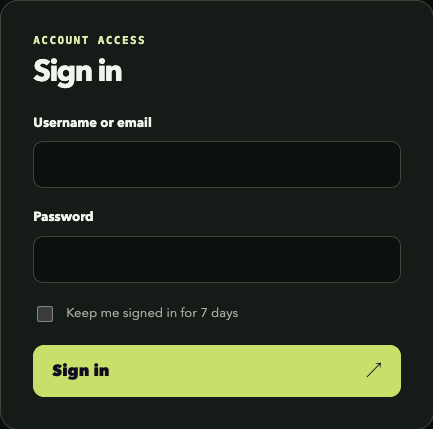
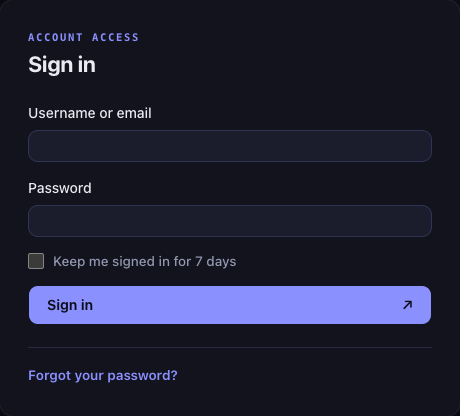
Refresh product screenshots and remove the share rail
- Recapture generator and admin login shots from the live app with
  the new indigo palette (dark theme)
- Drop the floating social share rail from the landing page and all
  server-rendered public pages; keep the go-to-top button
- Remove the share wiring from gplayer-landing.js and the rail CSS
- Bump service worker cache to v34 so visitors pick up the changes

diff --git a/public/index.html b/public/index.html
@@ -303,14 +303,6 @@
     <p class="copyright">© <span id="copyright-year"></span> <!-- runtime-site-name -->GPlayer<!-- /runtime-site-name --></p>
   </footer>
 
-  <aside class="public-share-rail" aria-label="Share this page">
-    <a href="#" data-share-network="facebook" target="_blank" rel="nofollow noopener noreferrer" aria-label="Share on Facebook" data-slot="button" data-variant="ghost" data-size="default" class="group/button inline-flex shrink-0 items-center justify-center rounded-lg border border-transparent bg-clip-padding text-sm font-medium whitespace-nowrap transition-all outline-none select-none focus-visible:border-ring focus-visible:ring-3 focus-visible:ring-ring/50 active:not-aria-[haspopup]:translate-y-px disabled:pointer-events-none disabled:opacity-50 aria-invalid:border-destructive aria-invalid:ring-3 aria-invalid:ring-destructive/20 dark:aria-invalid:border-destructive/50 dark:aria-invalid:ring-destructive/40 [&amp;_svg]:pointer-events-none [&amp;_svg]:shrink-0 [&amp;_svg:not([class*=&#x27;size-&#x27;])]:size-4 hover:bg-muted hover:text-foreground aria-expanded:bg-muted aria-expanded:text-foreground dark:hover:bg-muted/50 h-8 gap-1.5 px-2.5 has-data-[icon=inline-end]:pr-2 has-data-[icon=inline-start]:pl-2"><span aria-hidden="true">f</span></a>
-    <a href="#" data-share-network="x" target="_blank" rel="nofollow noopener noreferrer" aria-label="Share on X" data-slot="button" data-variant="ghost" data-size="default" class="group/button inline-flex shrink-0 items-center justify-center rounded-lg border border-transparent bg-clip-padding text-sm font-medium whitespace-nowrap transition-all outline-none select-none focus-visible:border-ring focus-visible:ring-3 focus-visible:ring-ring/50 active:not-aria-[haspopup]:translate-y-px disabled:pointer-events-none disabled:opacity-50 aria-invalid:border-destructive aria-invalid:ring-3 aria-invalid:ring-destructive/20 dark:aria-invalid:border-destructive/50 dark:aria-invalid:ring-destructive/40 [&amp;_svg]:pointer-events-none [&amp;_svg]:shrink-0 [&amp;_svg:not([class*=&#x27;size-&#x27;])]:size-4 hover:bg-muted hover:text-foreground aria-expanded:bg-muted aria-expanded:text-foreground dark:hover:bg-muted/50 h-8 gap-1.5 px-2.5 has-data-[icon=inline-end]:pr-2 has-data-[icon=inline-start]:pl-2"><span aria-hidden="true">X</span></a>
-    <a href="#" data-share-network="whatsapp" target="_blank" rel="nofollow noopener noreferrer" aria-label="Share on WhatsApp" data-slot="button" data-variant="ghost" data-size="default" class="group/button inline-flex shrink-0 items-center justify-center rounded-lg border border-transparent bg-clip-padding text-sm font-medium whitespace-nowrap transition-all outline-none select-none focus-visible:border-ring focus-visible:ring-3 focus-visible:ring-ring/50 active:not-aria-[haspopup]:translate-y-px disabled:pointer-events-none disabled:opacity-50 aria-invalid:border-destructive aria-invalid:ring-3 aria-invalid:ring-destructive/20 dark:aria-invalid:border-destructive/50 dark:aria-invalid:ring-destructive/40 [&amp;_svg]:pointer-events-none [&amp;_svg]:shrink-0 [&amp;_svg:not([class*=&#x27;size-&#x27;])]:size-4 hover:bg-muted hover:text-foreground aria-expanded:bg-muted aria-expanded:text-foreground dark:hover:bg-muted/50 h-8 gap-1.5 px-2.5 has-data-[icon=inline-end]:pr-2 has-data-[icon=inline-start]:pl-2"><span aria-hidden="true">WA</span></a>
-    <a href="#" data-share-network="telegram" target="_blank" rel="nofollow noopener noreferrer" aria-label="Share on Telegram" data-slot="button" data-variant="ghost" data-size="default" class="group/button inline-flex shrink-0 items-center justify-center rounded-lg border border-transparent bg-clip-padding text-sm font-medium whitespace-nowrap transition-all outline-none select-none focus-visible:border-ring focus-visible:ring-3 focus-visible:ring-ring/50 active:not-aria-[haspopup]:translate-y-px disabled:pointer-events-none disabled:opacity-50 aria-invalid:border-destructive aria-invalid:ring-3 aria-invalid:ring-destructive/20 dark:aria-invalid:border-destructive/50 dark:aria-invalid:ring-destructive/40 [&amp;_svg]:pointer-events-none [&amp;_svg]:shrink-0 [&amp;_svg:not([class*=&#x27;size-&#x27;])]:size-4 hover:bg-muted hover:text-foreground aria-expanded:bg-muted aria-expanded:text-foreground dark:hover:bg-muted/50 h-8 gap-1.5 px-2.5 has-data-[icon=inline-end]:pr-2 has-data-[icon=inline-start]:pl-2"><span aria-hidden="true">TG</span></a>
-    <button type="button" tabindex="0" data-slot="button" data-share-more aria-label="Share this page or copy its link" class="group/button inline-flex shrink-0 items-center justify-center rounded-lg border border-transparent bg-clip-padding text-sm font-medium whitespace-nowrap transition-all outline-none select-none focus-visible:border-ring focus-visible:ring-3 focus-visible:ring-ring/50 active:not-aria-[haspopup]:translate-y-px disabled:pointer-events-none disabled:opacity-50 aria-invalid:border-destructive aria-invalid:ring-3 aria-invalid:ring-destructive/20 dark:aria-invalid:border-destructive/50 dark:aria-invalid:ring-destructive/40 [&amp;_svg]:pointer-events-none [&amp;_svg]:shrink-0 [&amp;_svg:not([class*=&#x27;size-&#x27;])]:size-4 hover:bg-muted hover:text-foreground aria-expanded:bg-muted aria-expanded:text-foreground dark:hover:bg-muted/50 size-8"><span aria-hidden="true">↗</span></button>
-    <span class="sr-only" data-share-status aria-live="polite"></span>
-  </aside>
   <button type="button" tabindex="0" data-slot="button" id="gotoTop" aria-label="Go to top" title="Go to top" hidden class="group/button inline-flex shrink-0 items-center justify-center rounded-lg border border-transparent bg-clip-padding text-sm font-medium whitespace-nowrap transition-all outline-none select-none focus-visible:border-ring focus-visible:ring-3 focus-visible:ring-ring/50 active:not-aria-[haspopup]:translate-y-px disabled:pointer-events-none disabled:opacity-50 aria-invalid:border-destructive aria-invalid:ring-3 aria-invalid:ring-destructive/20 dark:aria-invalid:border-destructive/50 dark:aria-invalid:ring-destructive/40 [&amp;_svg]:pointer-events-none [&amp;_svg]:shrink-0 [&amp;_svg:not([class*=&#x27;size-&#x27;])]:size-4 hover:bg-muted hover:text-foreground aria-expanded:bg-muted aria-expanded:text-foreground dark:hover:bg-muted/50 size-8 goto-top"><span aria-hidden="true">↑</span></button>
 
   <template id="subtitle-template">

diff --git a/test/system-routes.test.ts b/test/system-routes.test.ts
@@ -74,9 +74,8 @@ describe('legacy-compatible system routes', () => {
     expect(page.body).toContain('src="./assets/js/gplayer-theme.js"')
     expect(page.body).toContain('data-theme-choice="light"')
     expect(page.body).toContain('data-theme-choice="dark"')
-    expect(page.body).toContain('data-share-network="facebook"')
-    expect(page.body).toContain('data-share-network="telegram"')
-    expect(page.body).toContain('data-share-more')
+    expect(page.body).not.toContain('data-share-network')
+    expect(page.body).not.toContain('data-share-more')
     expect(page.body).toContain('id="gotoTop"')
     expect(page.body).not.toContain('runtime-disqus')
     expect(page.body).not.toContain('gplayer-disqus.js')
@@ -107,11 +106,8 @@ describe('legacy-compatible system routes', () => {
     expect(script.body).toContain("document.querySelector('link[rel=\"manifest\"]')")
     expect(script.body).toContain("manifestLink instanceof HTMLLinkElement ? manifestLink.href : document.baseURI")
     expect(script.body).toContain("navigator.serviceWorker.register(new URL('sw.js', publicBase))")
-    expect(script.body).toContain('https://www.facebook.com/sharer/sharer.php')
-    expect(script.body).toContain('https://twitter.com/intent/tweet')
-    expect(script.body).toContain('https://api.whatsapp.com/send')
-    expect(script.body).toContain('https://t.me/share/url')
-    expect(script.body).toContain("typeof navigator.share === 'function'")
+    expect(script.body).not.toContain('https://www.facebook.com/sharer/sharer.php')
+    expect(script.body).not.toContain('https://twitter.com/intent/tweet')
     expect(script.body).toContain('globalThis.scrollY <= 200')
     expect(script.body).toContain("behavior: reduced ? 'auto' : 'smooth'")
     expect(script.body).not.toMatch(/gdplayer\.(?:to|io)/i)
@@ -124,7 +120,7 @@ describe('legacy-compatible system routes', () => {
     expect(themeScript.body).not.toContain('eval(')
     expect(style.body).toContain(':root[data-theme="light"]')
     expect(style.body).toContain(':root:not([data-theme="dark"])')
-    expect(style.body).toContain('.public-share-rail')
+    expect(style.body).not.toContain('.public-share-rail')
     expect(style.body).toContain('.goto-top')
   })
 
@@ -221,9 +217,8 @@ describe('legacy-compatible system routes', () => {
       expect(response.body).toContain('aria-label="$1 Media &amp; Player home"')
       expect(response.body).toContain('<link rel="stylesheet" href="/runtime-site.css">')
       expect(response.body).toContain('Stream &lt;everything&gt; safely')
-      expect(response.body).toContain('data-share-network="facebook"')
-      expect(response.body).toContain('data-share-network="telegram"')
-      expect(response.body).toContain('data-share-more')
+      expect(response.body).not.toContain('data-share-network')
+      expect(response.body).not.toContain('data-share-more')
       expect(response.body).toContain('id="gotoTop"')
     }
     expect(dmca.body).toContain('$1 Media &amp; Player respects the intellectual-property rights')
@@ -686,7 +681,7 @@ describe('legacy-compatible system routes', () => {
       ])
     }))
     expect(worker.statusCode).toBe(200)
-    expect(worker.body).toContain("gplayer-node-public-v33")
+    expect(worker.body).toContain("gplayer-node-public-v34")
     expect(worker.body).toContain("'assets/css/gplayer-ui.css'")
     expect(worker.body).toContain("const OFFLINE_URL = scopedUrl('offline.html')")
     expect(worker.body).toContain('.map(scopedUrl)')

diff --git a/public/assets/js/gplayer-landing.js b/public/assets/js/gplayer-landing.js
@@ -193,44 +193,6 @@
   }
 
   function configurePublicUtilities() {
-    const sharedUrl = location.href
-    const sharedTitle = document.title
-    const encodedUrl = encodeURIComponent(sharedUrl)
-    const encodedTitle = encodeURIComponent(sharedTitle)
-    const destinations = {
-      facebook: `https://www.facebook.com/sharer/sharer.php?u=${encodedUrl}`,
-      x: `https://twitter.com/intent/tweet?url=${encodedUrl}&text=${encodedTitle}`,
-      whatsapp: `https://api.whatsapp.com/send?text=${encodedTitle}%20${encodedUrl}`,
-      telegram: `https://t.me/share/url?url=${encodedUrl}&text=${encodedTitle}`
-    }
-
-    document.querySelectorAll('[data-share-network]').forEach((link) => {
-      if (!(link instanceof HTMLAnchorElement)) return
-      const destination = destinations[link.dataset.shareNetwork]
-      if (destination !== undefined) link.href = destination
-    })
-
-    const status = document.querySelector('[data-share-status]')
-    document.querySelector('[data-share-more]')?.addEventListener('click', async () => {
-      try {
-        if (typeof navigator.share === 'function') {
-          await navigator.share({ title: sharedTitle, url: sharedUrl })
-          announceShareStatus(status, 'Share menu opened.')
-          return
-        }
-        await copyShareUrl(sharedUrl)
-        announceShareStatus(status, 'Link copied.')
-      } catch (error) {
-        if (error instanceof DOMException && error.name === 'AbortError') return
-        try {
-          await copyShareUrl(sharedUrl)
-          announceShareStatus(status, 'Link copied.')
-        } catch {
-          announceShareStatus(status, 'Copy the link from the address bar.')
-        }
-      }
-    })
-
     const gotoTop = document.querySelector('#gotoTop')
     if (!(gotoTop instanceof HTMLButtonElement)) return
     let scrollFrame = 0
@@ -247,26 +209,5 @@
       globalThis.scrollTo({ top: 0, behavior: reduced ? 'auto' : 'smooth' })
     })
     updateGotoTop()
-  }
-
-  async function copyShareUrl(url) {
-    if (navigator.clipboard?.writeText !== undefined) {
-      await navigator.clipboard.writeText(url)
-      return
-    }
-    const input = document.createElement('textarea')
-    input.value = url
-    input.readOnly = true
-    input.style.position = 'fixed'
-    input.style.opacity = '0'
-    document.body.append(input)
-    input.select()
-    const copied = document.execCommand('copy')
-    input.remove()
-    if (!copied) throw new Error('Clipboard unavailable')
-  }
-
-  function announceShareStatus(status, text) {
-    if (status instanceof HTMLElement) status.textContent = text
   }
 })()

diff --git a/src/player/public-page.ts b/src/player/public-page.ts
@@ -234,15 +234,7 @@ function renderFooter(navigation: PublicNavigationOptions, site: SiteSettings): 
 }
 
 function renderPublicUtilities(): string {
-  return `<aside class="public-share-rail" aria-label="Share this page">
-  <a href="#" data-share-network="facebook" target="_blank" rel="nofollow noopener noreferrer" aria-label="Share on Facebook"><span aria-hidden="true">f</span></a>
-  <a href="#" data-share-network="x" target="_blank" rel="nofollow noopener noreferrer" aria-label="Share on X"><span aria-hidden="true">X</span></a>
-  <a href="#" data-share-network="whatsapp" target="_blank" rel="nofollow noopener noreferrer" aria-label="Share on WhatsApp"><span aria-hidden="true">WA</span></a>
-  <a href="#" data-share-network="telegram" target="_blank" rel="nofollow noopener noreferrer" aria-label="Share on Telegram"><span aria-hidden="true">TG</span></a>
-  <button type="button" data-share-more aria-label="Share this page or copy its link"><span aria-hidden="true">↗</span></button>
-  <span class="sr-only" data-share-status aria-live="polite"></span>
-</aside>
-<button type="button" id="gotoTop" class="goto-top" aria-label="Go to top" title="Go to top" hidden><span aria-hidden="true">↑</span></button>`
+  return `<button type="button" id="gotoTop" class="goto-top" aria-label="Go to top" title="Go to top" hidden><span aria-hidden="true">↑</span></button>`
 }
 
 function publicSiteSettings(value: SiteSettings | undefined): SiteSettings {

diff --git a/public/assets/css/gplayer-landing.css b/public/assets/css/gplayer-landing.css
@@ -1293,23 +1293,6 @@ img[src$="/direct.png"] {
   font-family: var(--mono);
 }
 
-.public-share-rail {
-  position: fixed;
-  z-index: 45;
-  top: 50%;
-  left: 14px;
-  display: grid;
-  overflow: hidden;
-  border: 1px solid var(--line-strong);
-  border-radius: 13px;
-  background: color-mix(in srgb, var(--panel), transparent 5%);
-  box-shadow: 0 16px 48px rgba(0, 0, 0, 0.25);
-  transform: translateY(-50%);
-  backdrop-filter: blur(14px);
-}
-
-.public-share-rail a,
-.public-share-rail button,
 .goto-top {
   display: grid;
   width: 42px;
@@ -1325,14 +1308,6 @@ img[src$="/direct.png"] {
   transition: background 160ms ease, color 160ms ease, transform 160ms ease;
 }
 
-.public-share-rail a + a,
-.public-share-rail a + button,
-.public-share-rail button {
-  border-top: 1px solid var(--line);
-}
-
-.public-share-rail a:hover,
-.public-share-rail button:hover,
 .goto-top:hover {
   background: var(--brand);
   color: var(--brand-ink);
@@ -1559,23 +1534,6 @@ img[src$="/direct.png"] {
 
   .format-band {
     flex-wrap: wrap;
-  }
-}
-
-@media (max-width: 640px) {
-  .public-share-rail {
-    top: auto;
-    bottom: 18px;
-    left: 18px;
-    transform: none;
-  }
-
-  .public-share-rail [data-share-network] {
-    display: none;
-  }
-
-  .public-share-rail button {
-    border-top: 0;
   }
 }
 

diff --git a/test/player-routes.test.ts b/test/player-routes.test.ts
@@ -572,8 +572,8 @@ describe('player HTTP routes', () => {
     expect(page.body).toContain('/runtime-site.css')
     expect(page.body).toContain('href="/administrator/login/">Sign in</a>')
     expect(page.body).toContain('href="/administrator/register/">Register</a>')
-    expect(page.body).toContain('data-share-network="facebook"')
-    expect(page.body).toContain('data-share-more')
+    expect(page.body).not.toContain('data-share-network')
+    expect(page.body).not.toContain('data-share-more')
     expect(page.body).toContain('id="gotoTop"')
     expect(page.body).toContain('id="frmBypassLimit"')
     expect(page.body).toContain('name="gdrive_id"')

diff --git a/public/sw.js b/public/sw.js
@@ -1,4 +1,4 @@
-const CACHE_NAME = 'gplayer-node-public-v33'
+const CACHE_NAME = 'gplayer-node-public-v34'
 const scopedUrl = (path) => new URL(path, self.registration.scope).toString()
 const OFFLINE_URL = scopedUrl('offline.html')
 const PRECACHE = [
